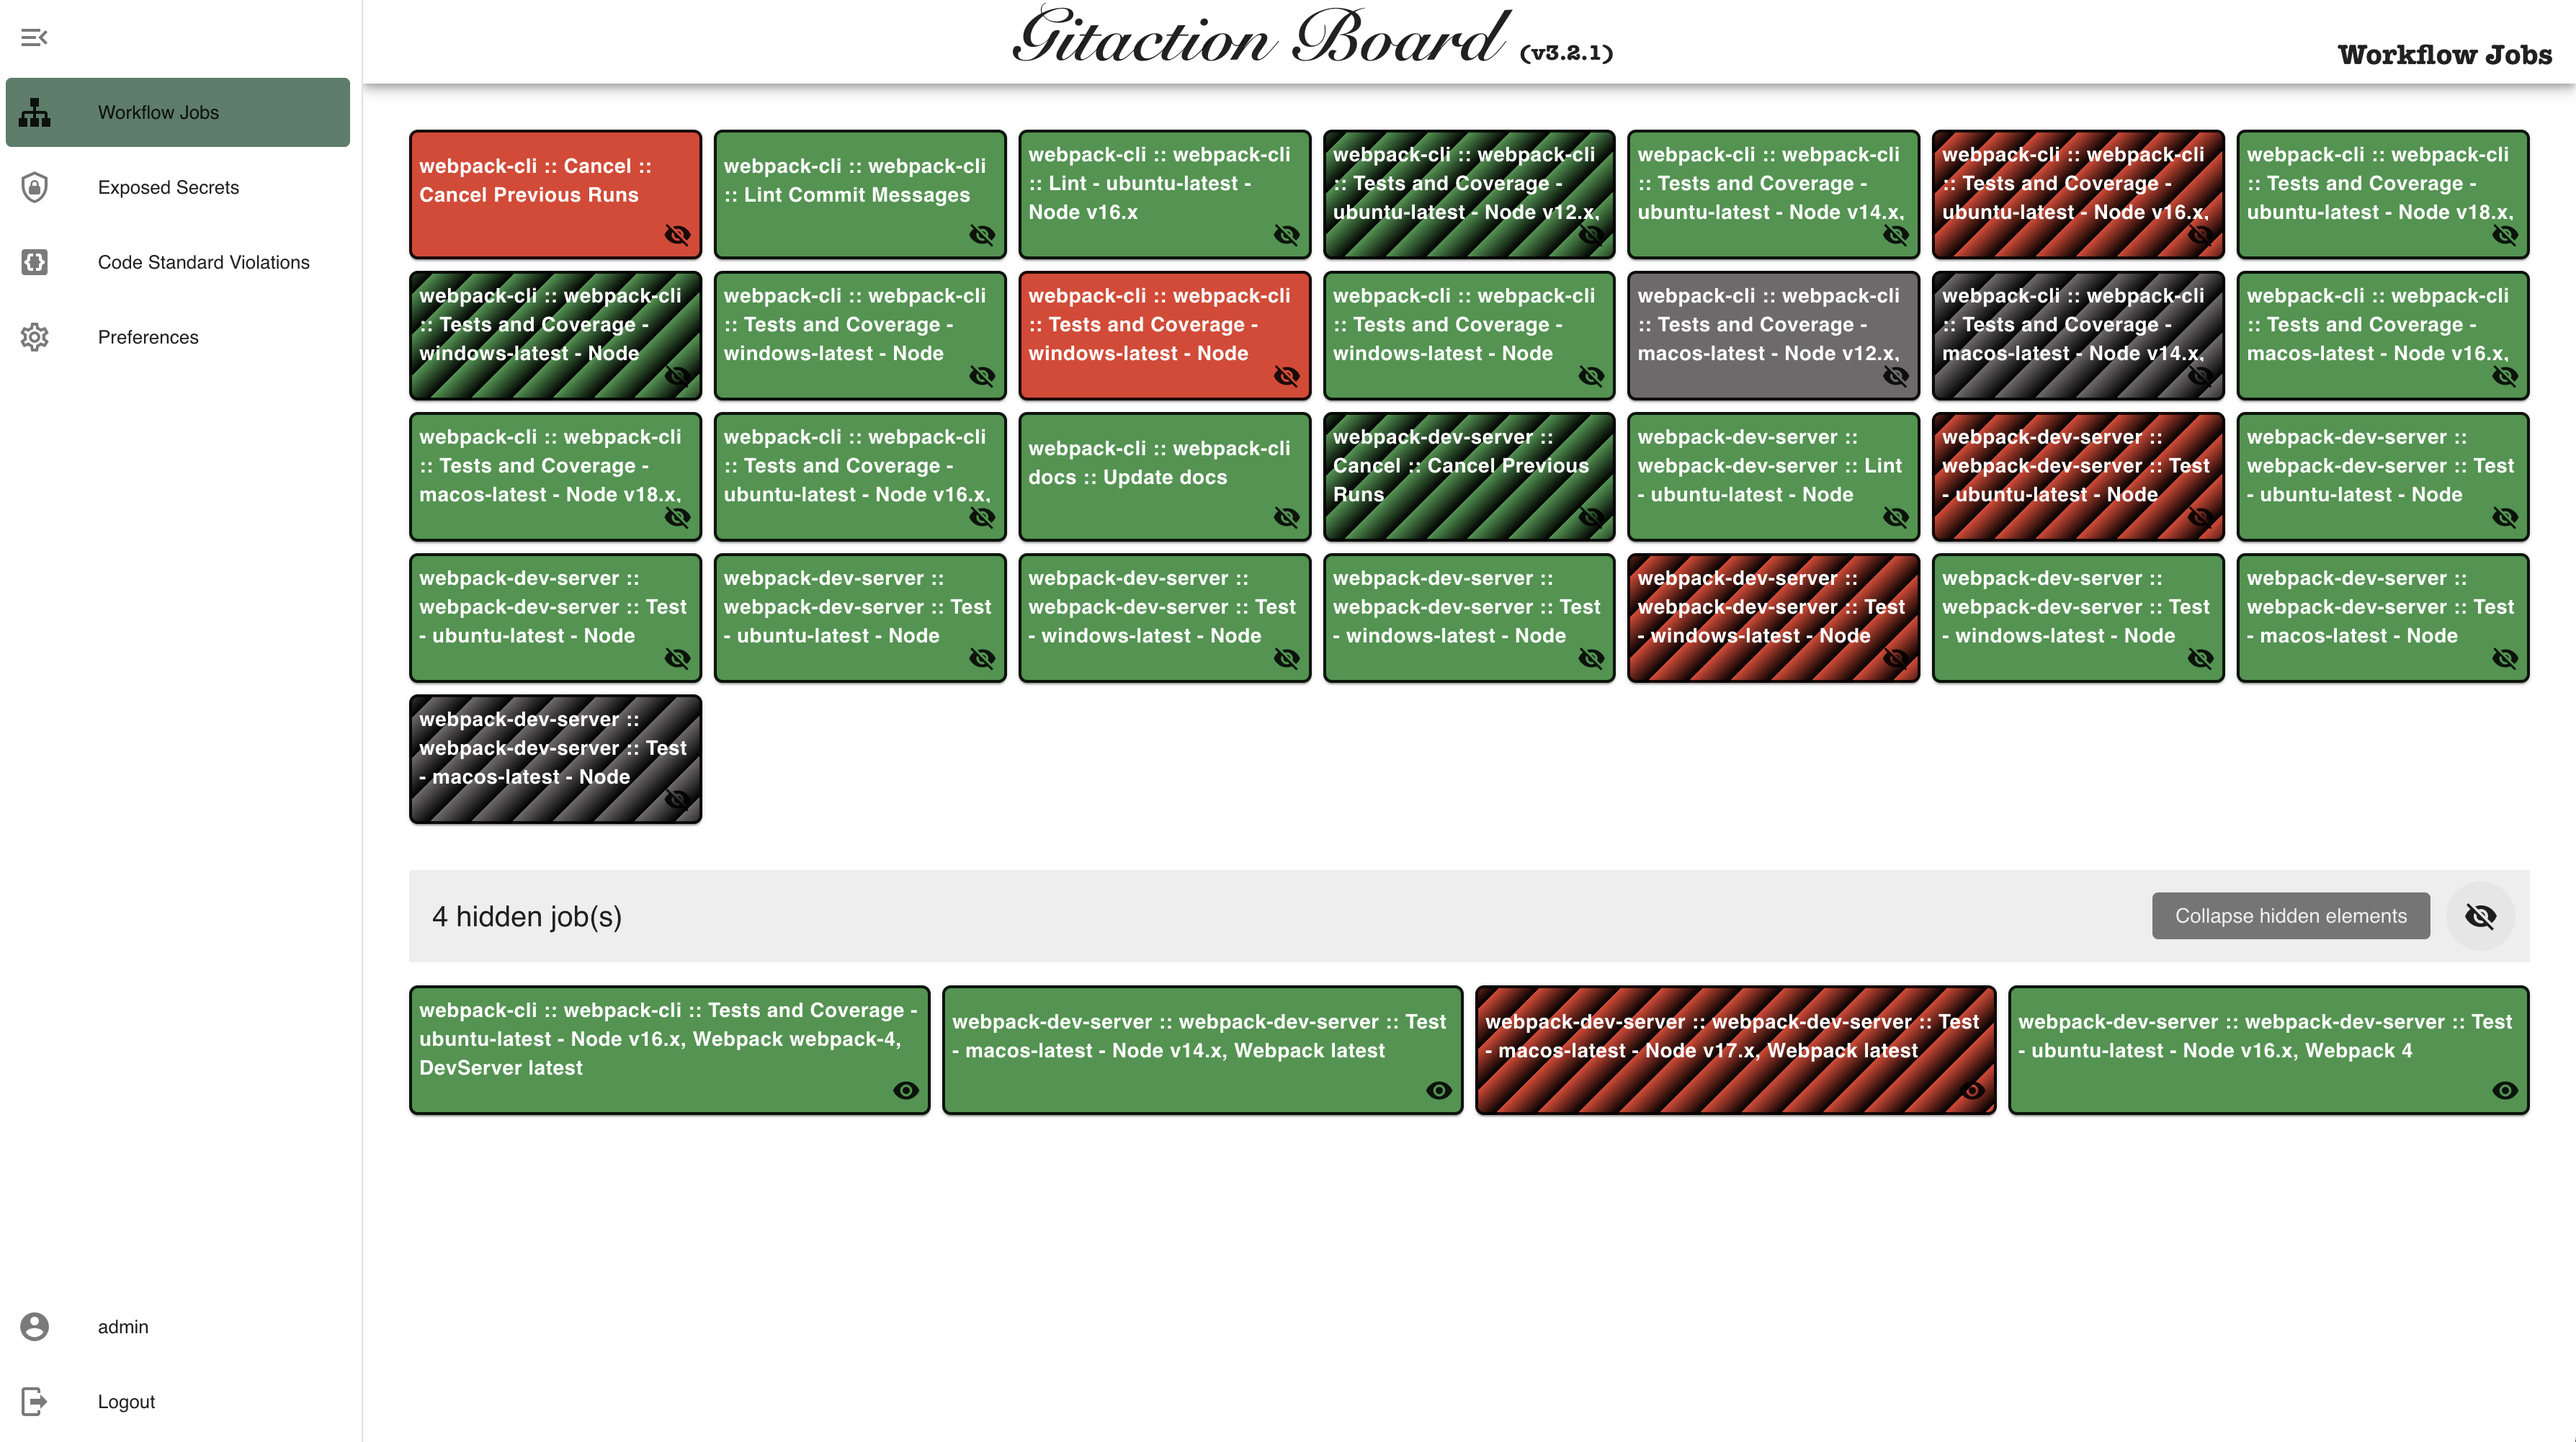
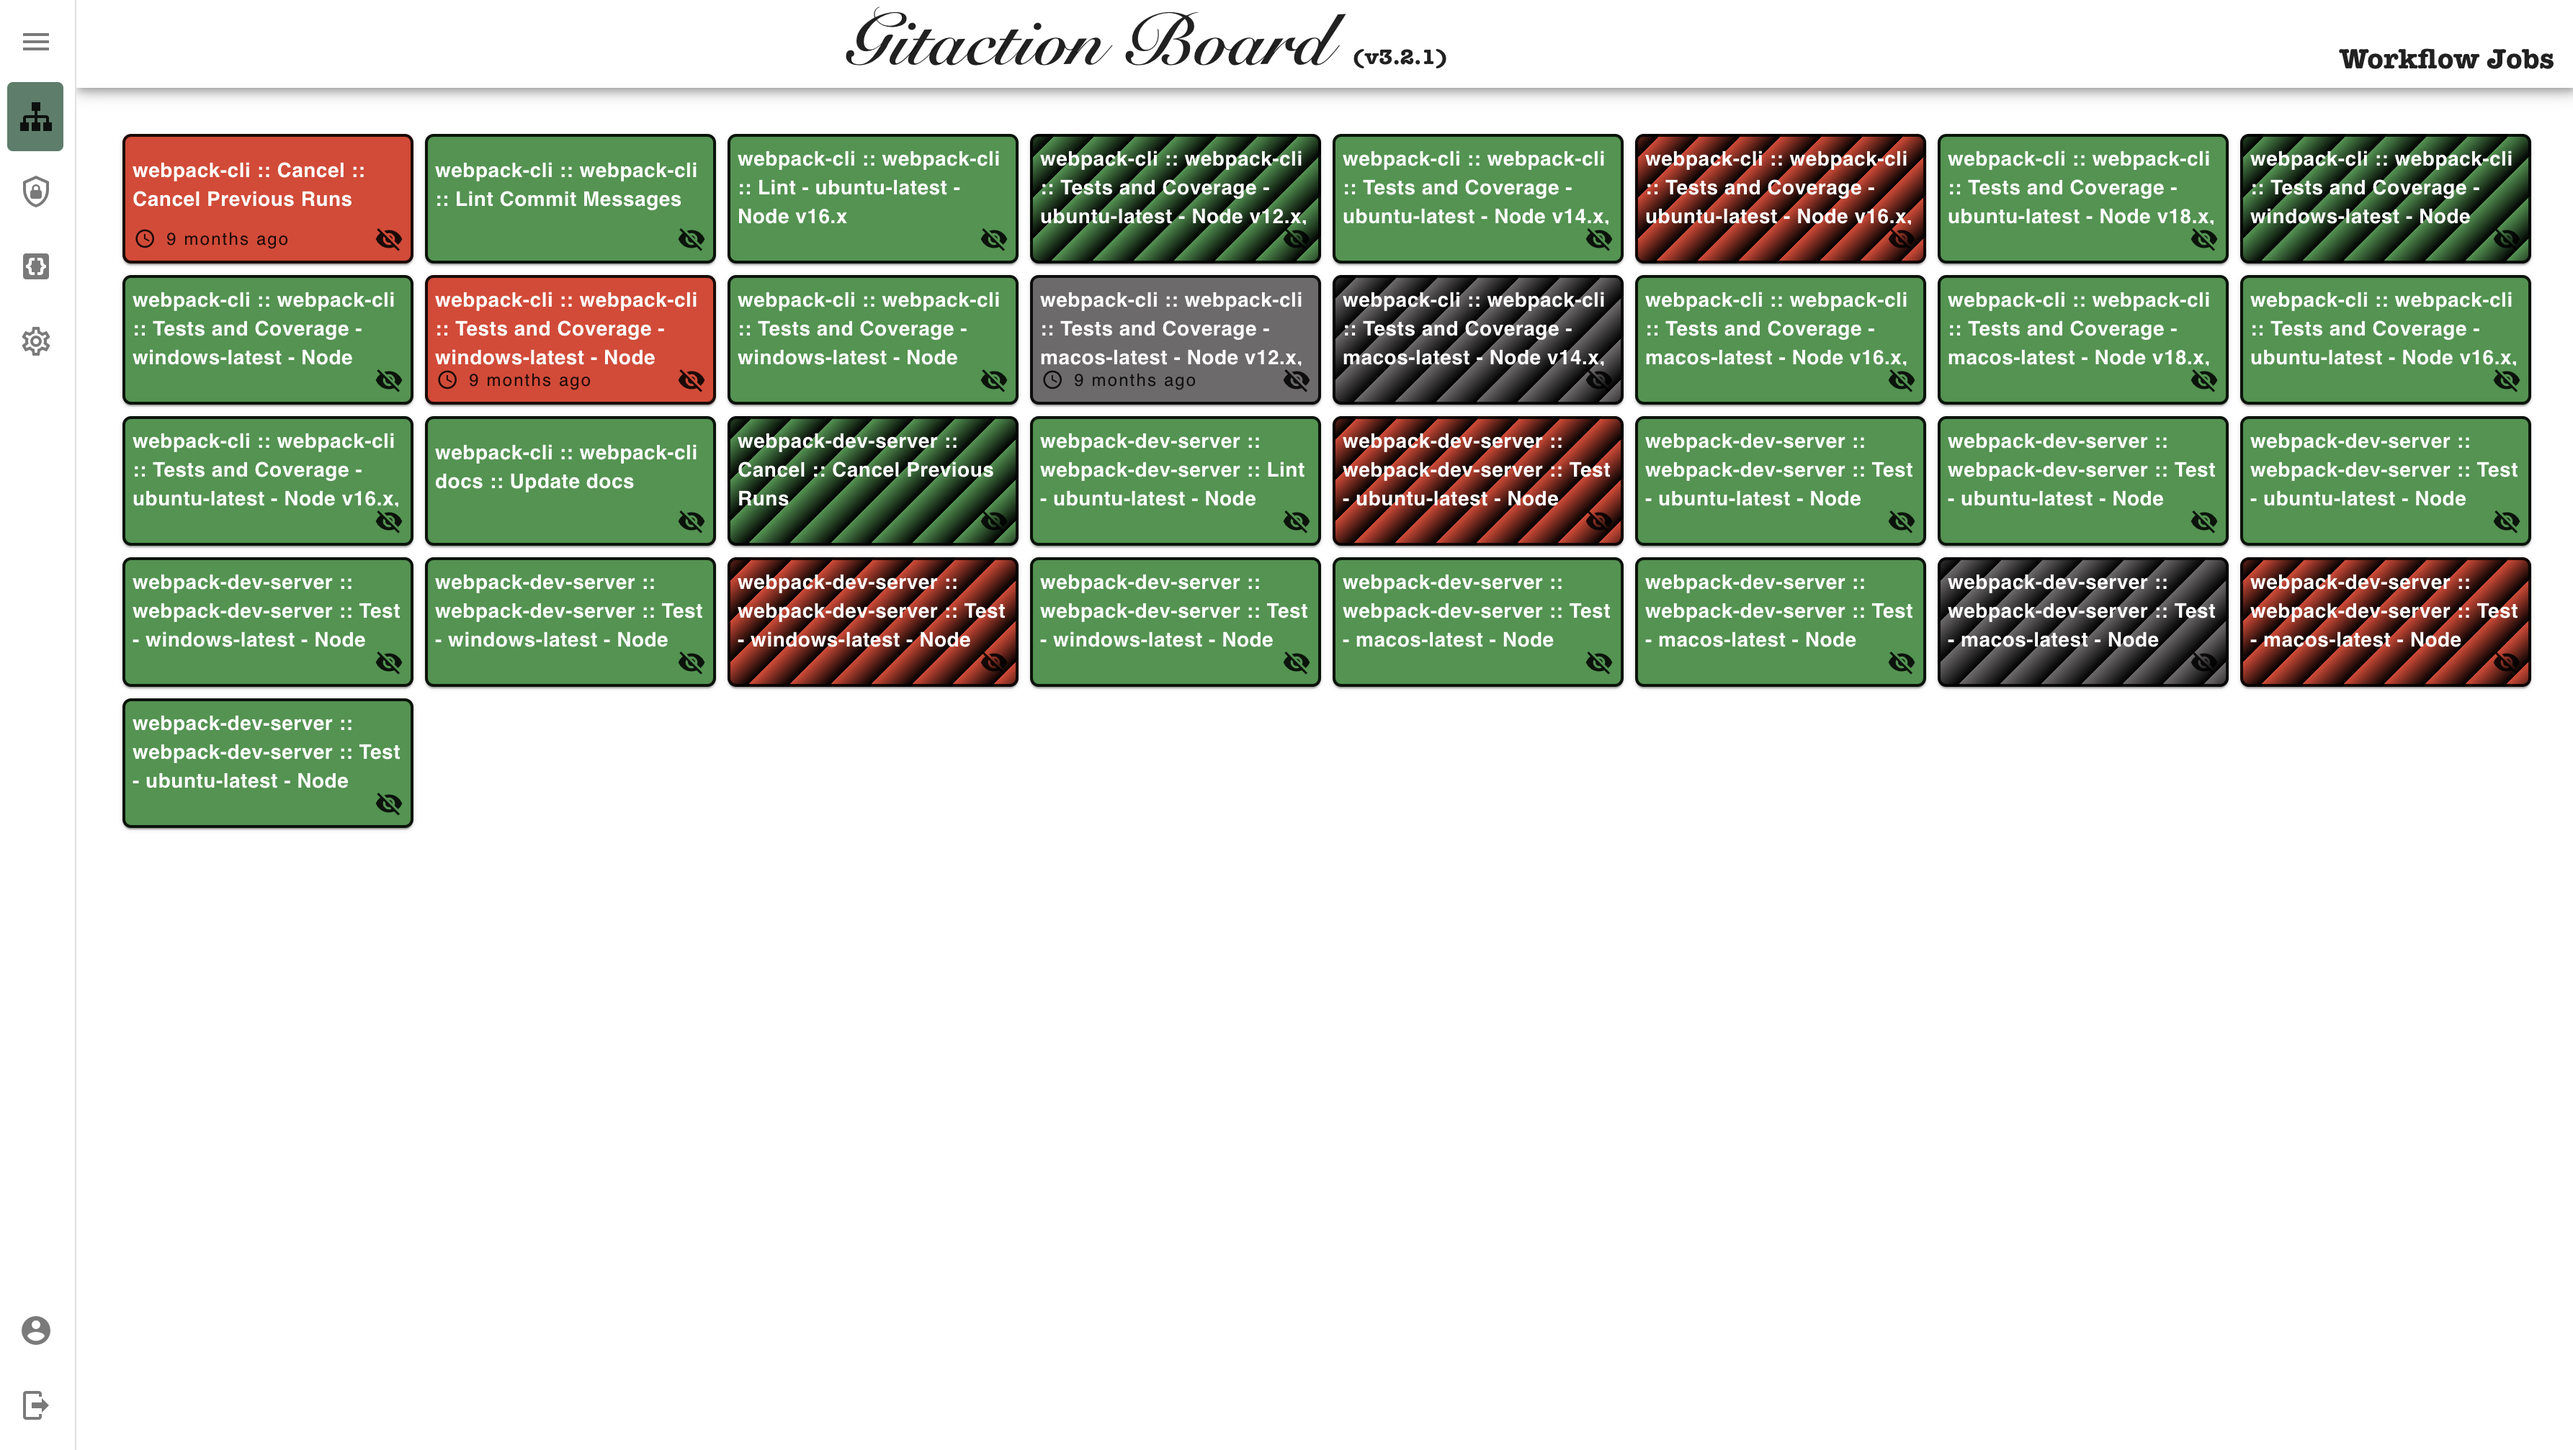
feat: Display relative time difference for failed workflow jobs

diff --git a/frontend/src/components/Job.vue b/frontend/src/components/Job.vue
@@ -3,7 +3,7 @@
     :id="content.name"
     :key="content.name"
     height="90px"
-    :class="`${getBuildAndActivityStatus(content)}`"
+    :class="classNames"
   >
     <v-card-text class="job-name pa-0 ma-0">
       <v-tooltip text="Open on GitHub">
@@ -19,21 +19,37 @@
         </template>
       </v-tooltip>
     </v-card-text>
-    <v-tooltip :text="`${hidden? 'Show element':'Hide element'}`">
-      <template #activator="{ props }">
-        <v-icon
-          v-bind="props"
-          class="align-self-end"
-          :icon="hidden? `mdi-eye`: `mdi-eye-off`"
-          size="small"
-          @click="$emit('toggleVisibility', content.name)"
-        />
-      </template>
-    </v-tooltip>
+    <div class="d-flex">
+      <v-btn
+        v-if="showRelativeTime"
+        disabled
+        prepend-icon="mdi-clock-time-four-outline"
+        size="small"
+        variant="text"
+        density="compact"
+        flat
+        class="relative-time pl-1 align-self-center"
+      >
+        {{ relativeTime }}
+      </v-btn>
+      <v-spacer />
+      <v-tooltip :text="`${hidden? 'Show element':'Hide element'}`">
+        <template #activator="{ props }">
+          <v-icon
+            v-bind="props"
+            :icon="hidden? `mdi-eye`: `mdi-eye-off`"
+            size="small"
+            @click="$emit('toggleVisibility', content.name)"
+          />
+        </template>
+      </v-tooltip>
+    </div>
   </v-card>
 </template>
 
 <script>
+
+import { getRelativeTime } from '@/services/utils';
 
 export default {
   name: 'Job',
@@ -48,15 +64,21 @@ export default {
     }
   },
   emits: ['toggleVisibility'],
-  methods: {
-    getBuildAndActivityStatus(job) {
-      const lastBuildStatusIndicator = this.getBuildStatus(job.lastBuildStatus);
-      return job.activity === 'Building'
-        ? `job ${lastBuildStatusIndicator} building`
-        : `job ${lastBuildStatusIndicator}`;
+  computed: {
+    relativeTime() {
+      return getRelativeTime(this.content.lastBuildTime);
     },
-    getBuildStatus(status) {
-      switch (status) {
+    showRelativeTime() {
+      const { activity, lastBuildStatus } = this.content;
+      return activity !== 'Building' && lastBuildStatus !== 'Success';
+    },
+    classNames() {
+      return this.content.activity === 'Building'
+        ? `job ${this.buildStatusIndicator} building`
+        : `job ${this.buildStatusIndicator}`;
+    },
+    buildStatusIndicator() {
+      switch (this.content.lastBuildStatus) {
         case 'Success':
           return 'success';
         case 'Unknown':
@@ -70,6 +92,11 @@ export default {
 </script>
 
 <style scoped>
+.relative-time{
+    text-transform: none !important;
+    opacity: 1;
+}
+
 .job-name {
   color: white;
   font-weight: bold;

diff --git a/frontend/src/services/utils.js b/frontend/src/services/utils.js
@@ -1,7 +1,7 @@
 import storageService from '@/services/storageService';
 import preferences from '@/services/preferences';
 
-const allPossibleEvents = {
+const ALL_POSSIBLE_EVENTS = {
   branch_protection_rule: 'Branch protection rule',
   check_run: 'Check run',
   check_suite: 'Check suite',
@@ -37,6 +37,29 @@ const allPossibleEvents = {
   workflow_run: 'Workflow run',
   repository_dispatch: 'Repository dispatch'
 };
+
+const SECOND = 1000;
+const MINUTE = 60 * SECOND;
+const HOUR = 60 * MINUTE;
+const DAY = 24 * HOUR;
+const WEEK = 7 * DAY;
+const MONTH = 30 * DAY;
+const YEAR = 12 * MONTH;
+
+const RELATIVE_FORMAT_INFO = [
+  { cutoffs: MINUTE, unit: 'seconds', amount: SECOND },
+  { cutoffs: HOUR, unit: 'minutes', amount: MINUTE },
+  { cutoffs: DAY, unit: 'hours', amount: HOUR },
+  { cutoffs: WEEK, unit: 'days', amount: DAY },
+  { cutoffs: MONTH, unit: 'weeks', amount: WEEK },
+  { cutoffs: YEAR, unit: 'months', amount: MONTH },
+  { cutoffs: Number.POSITIVE_INFINITY, unit: 'years', amount: YEAR }
+];
+
+const RELATIVE_TIME_FORMAT = new Intl.RelativeTimeFormat('en', {
+  numeric: 'auto',
+  style: 'long'
+});
 
 export const setAvailableAuths = (availableAuths) => {
   storageService.setItem('availableAuths', JSON.stringify(availableAuths));
@@ -79,14 +102,24 @@ export const getVersion = () => storageService.getItem('version');
 
 const buildTriggeredEvents = (keys) => {
   return keys.map(key => ({
-    title: allPossibleEvents[key],
+    title: ALL_POSSIBLE_EVENTS[key],
     value: key
   }));
 };
 
-export const getAllPossibleTriggeredEvents = () => buildTriggeredEvents(Object.keys(allPossibleEvents));
+export const getAllPossibleTriggeredEvents = () => buildTriggeredEvents(Object.keys(ALL_POSSIBLE_EVENTS));
 
 export const getShowBuildsDueToTriggeredEvents = () =>
   preferences.showBuildsDueToTriggeredEvents.length === 0
     ? getAllPossibleTriggeredEvents()
     : buildTriggeredEvents(preferences.showBuildsDueToTriggeredEvents);
+
+export const getRelativeTime = timestamp => {
+  const timeDifference = new Date(timestamp) - new Date();
+
+  const { amount, unit } =
+      RELATIVE_FORMAT_INFO.find(({ cutoffs }) => cutoffs > Math.abs(timeDifference)) ||
+      RELATIVE_FORMAT_INFO[0];
+
+  return RELATIVE_TIME_FORMAT.format(Math.round(timeDifference / amount), unit);
+};
